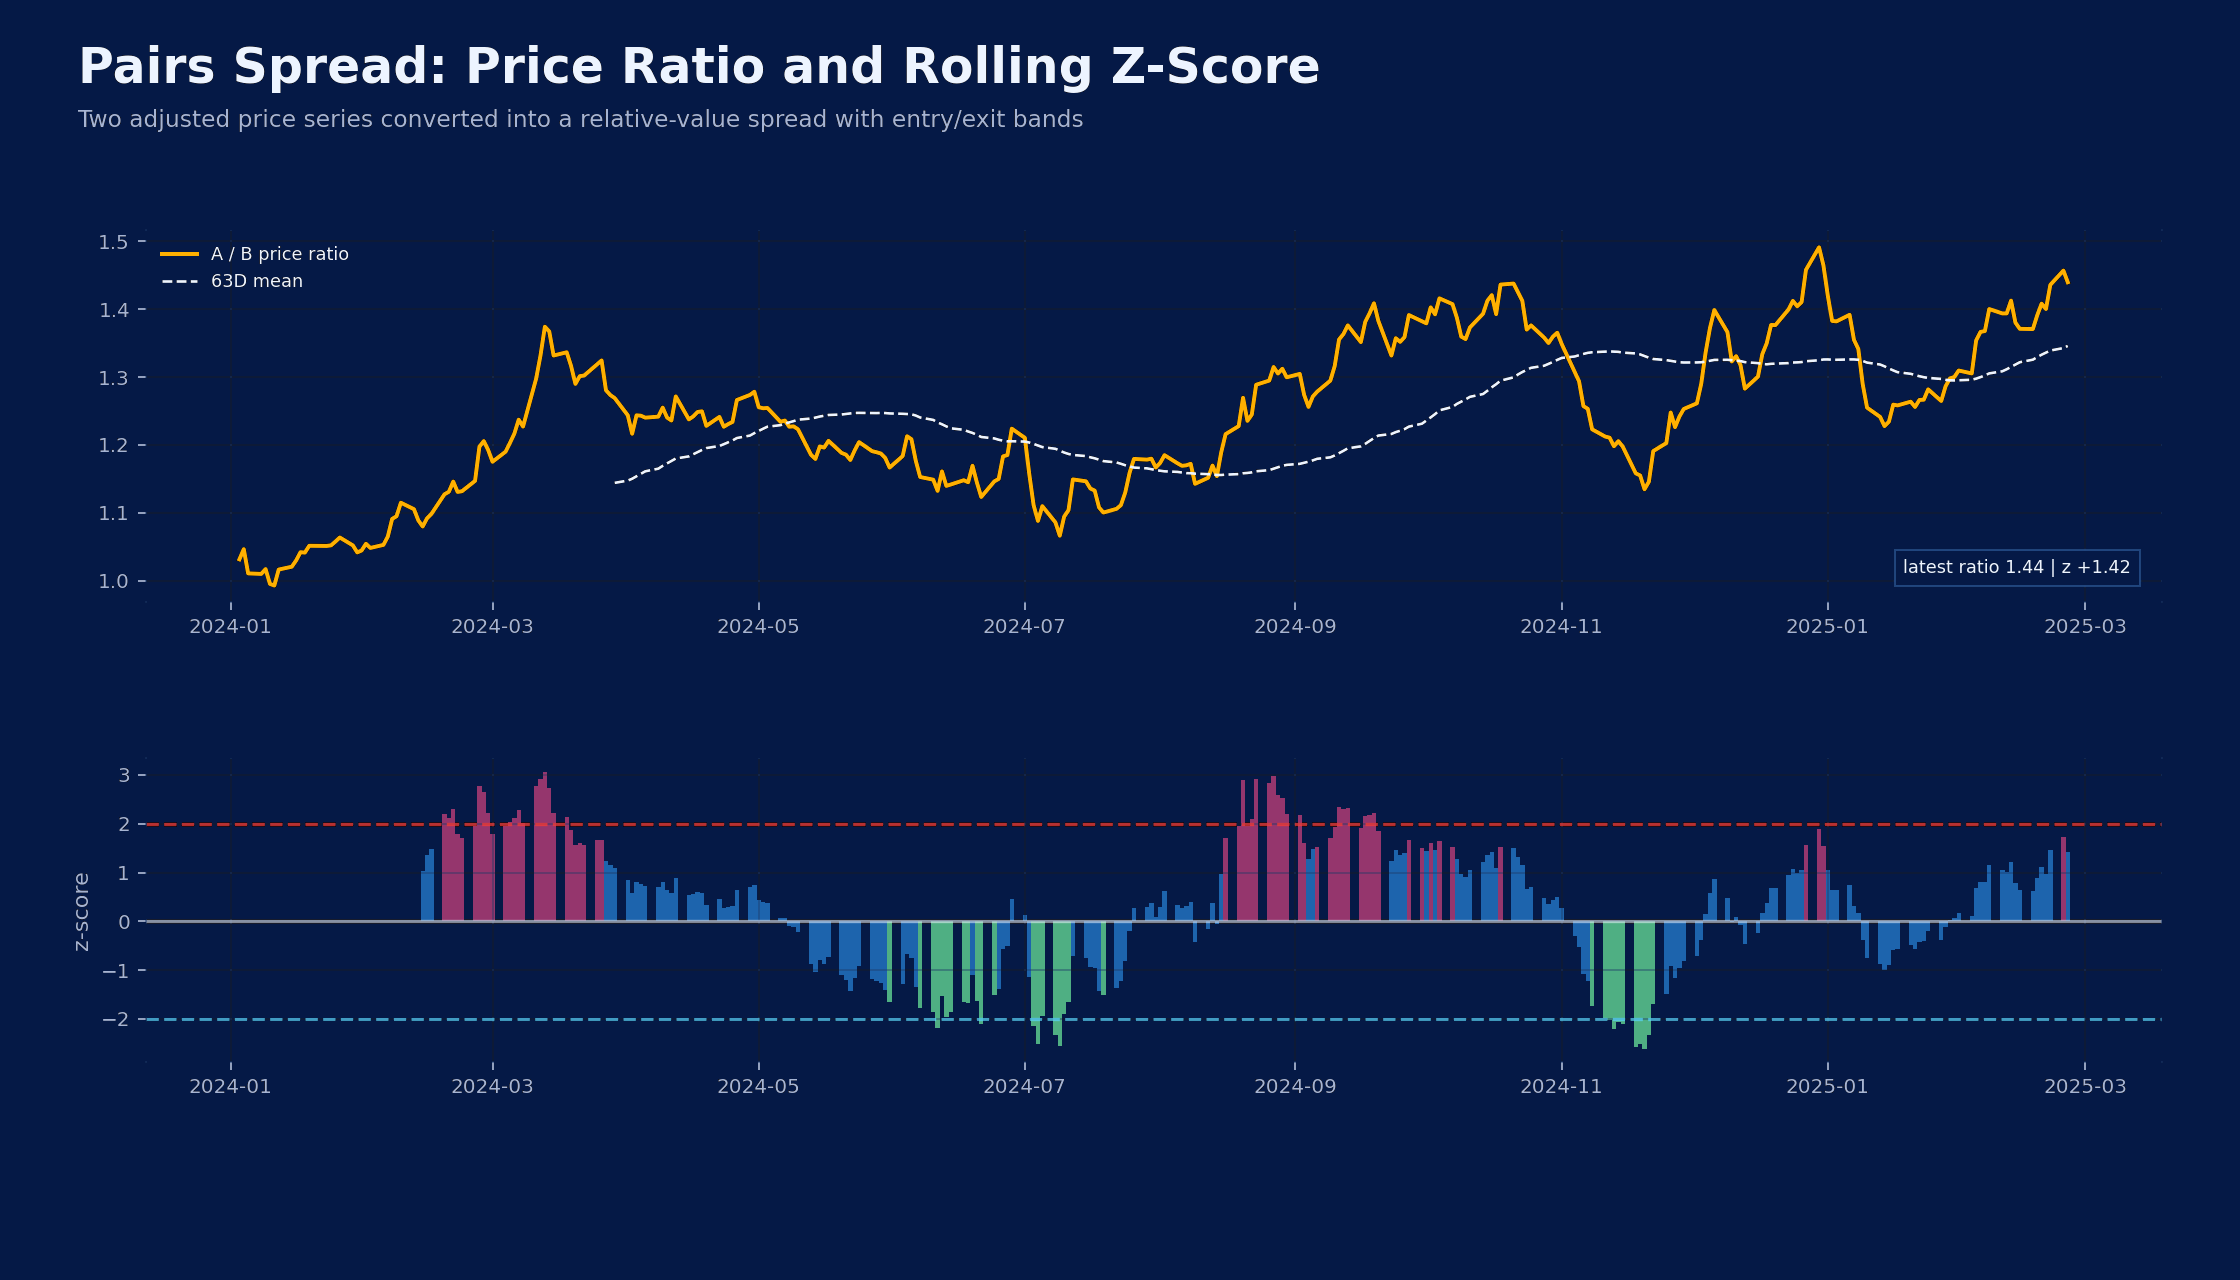
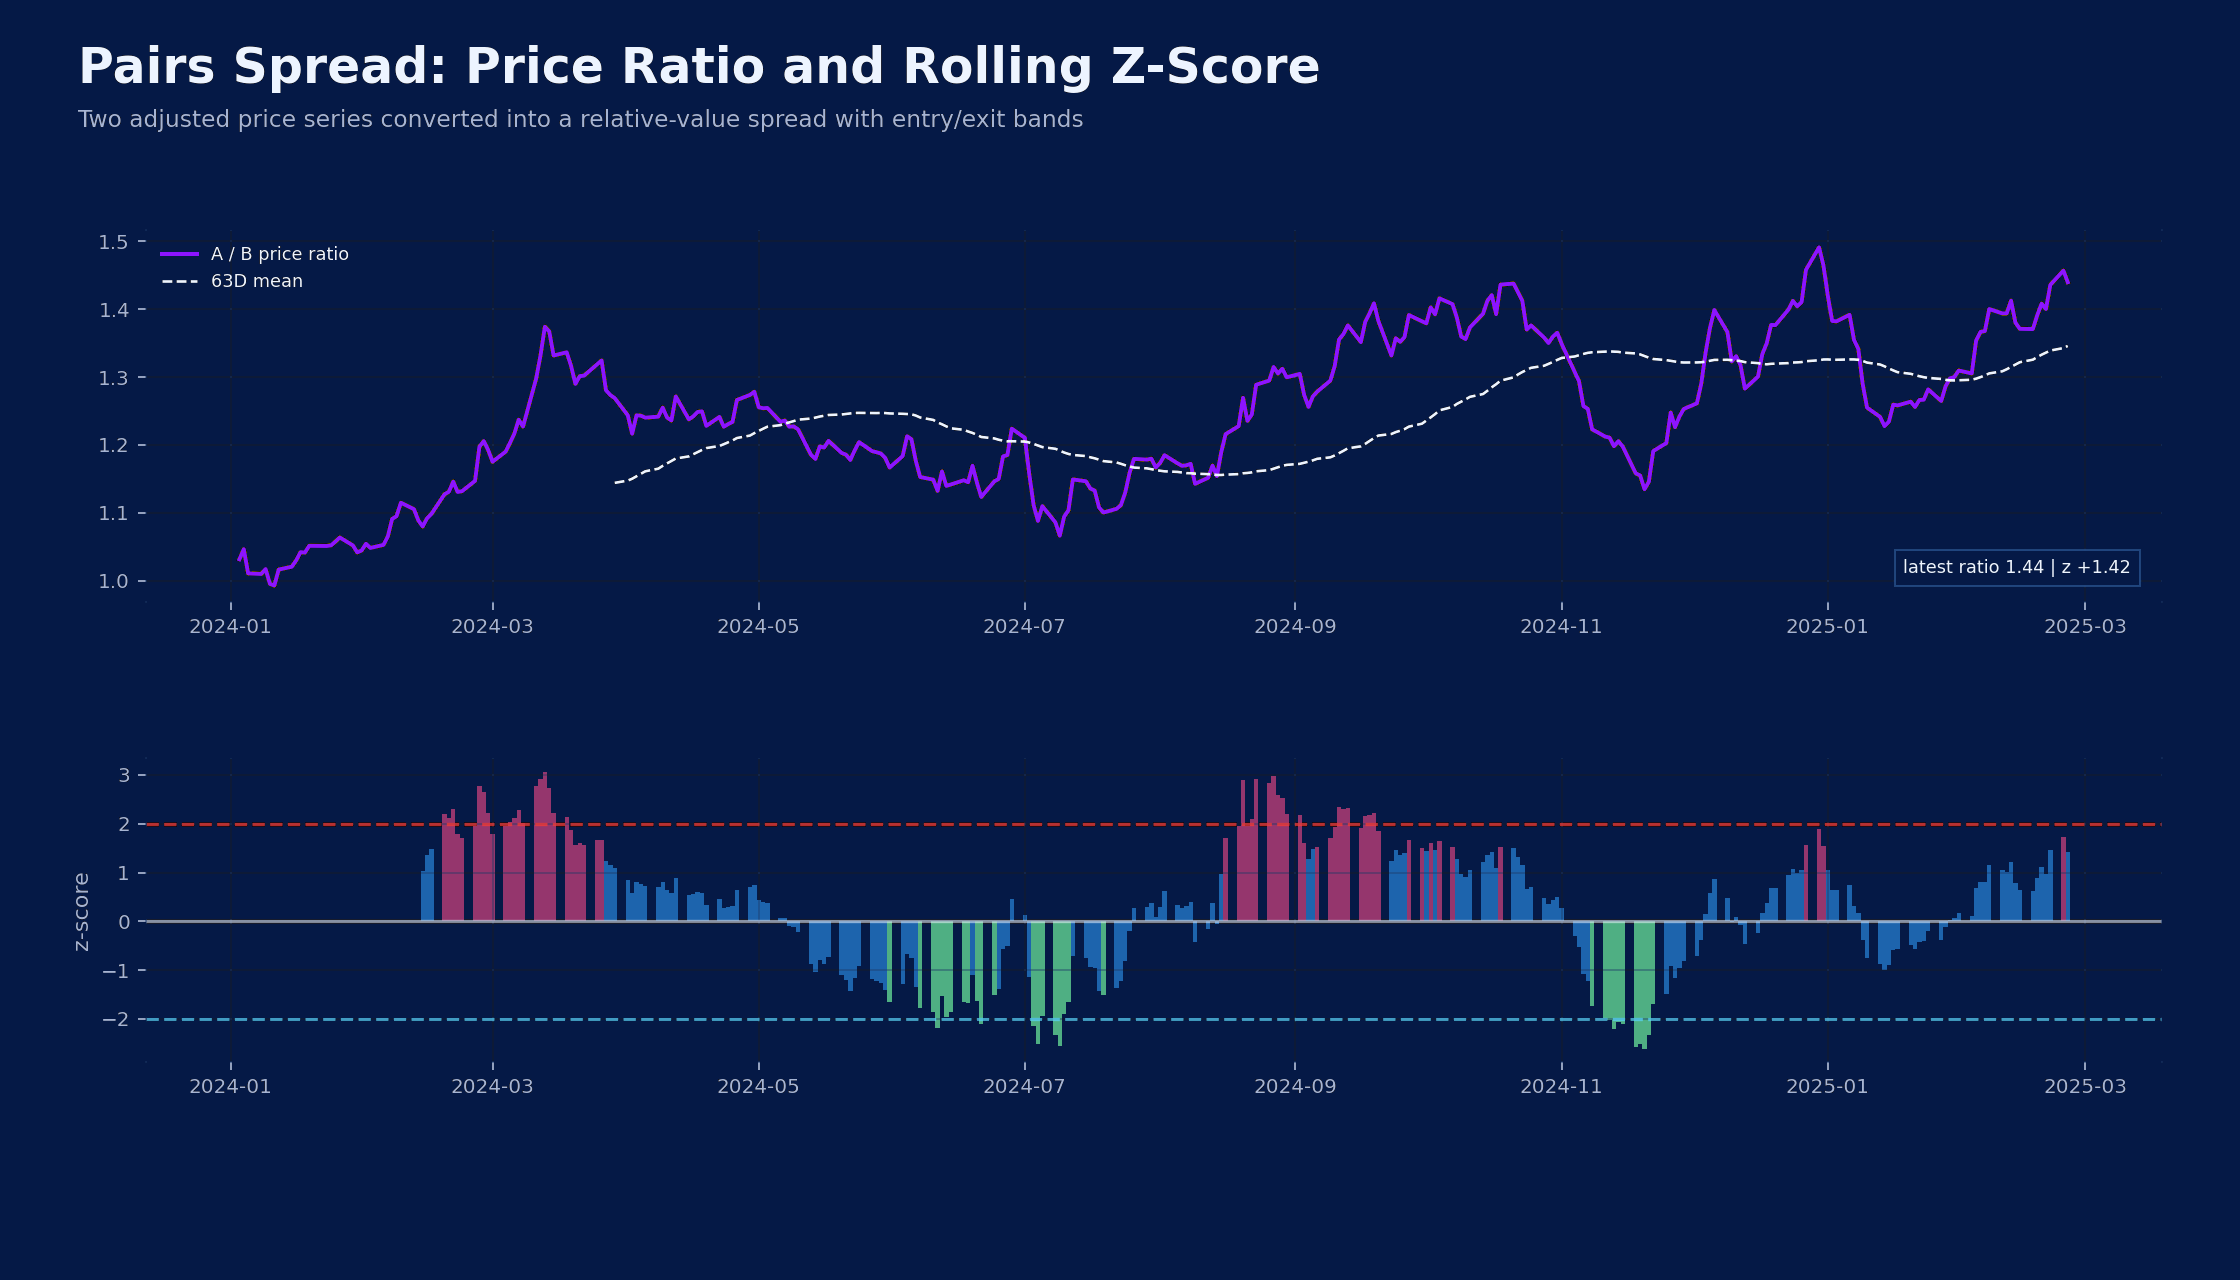
Recolor landing warm accents to purple

diff --git a/scripts/recolor_landing_api_warm_accents.py b/scripts/recolor_landing_api_warm_accents.py
@@ -1,0 +1,123 @@
+from __future__ import annotations
+
+from pathlib import Path
+
+import numpy as np
+from PIL import Image
+
+
+ROOT = Path(__file__).resolve().parents[1]
+TARGET = np.array([168, 85, 247], dtype=np.float32) / 255.0
+TARGET_HSV = None
+
+PLOTS = [
+    ROOT / "_output" / "_v3" / "v3_01_cloud_arr_grouped_bars.png",
+    ROOT / "_output" / "_v3" / "v3_14_earnings_implied_realized_scatter.png",
+    ROOT / "_output" / "_v3" / "v3_23_orange_factor_risk_river.png",
+    ROOT / "_output" / "_v3" / "v3_25_backtest_parameter_surface_3d.png",
+    ROOT / "_output" / "_v3" / "v3_27_realized_volatility_cone.png",
+    ROOT / "_output" / "_v3" / "v3_30_pairs_spread_zscore.png",
+    ROOT / "_output" / "_v3" / "v3_11_roic_wacc_spread_zscore.png",
+    ROOT / "_output" / "39_institutional_crowding_13f_flows_output_01.png",
+]
+
+YELLOW_GREEN_PLOTS = {
+    ROOT / "_output" / "39_institutional_crowding_13f_flows_output_01.png",
+}
+
+
+def rgb_to_hsv(rgb: np.ndarray) -> np.ndarray:
+    r, g, b = rgb[..., 0], rgb[..., 1], rgb[..., 2]
+    maxc = np.max(rgb, axis=-1)
+    minc = np.min(rgb, axis=-1)
+    delta = maxc - minc
+
+    hue = np.zeros_like(maxc)
+    nonzero = delta > 1e-6
+    rmax = nonzero & (maxc == r)
+    gmax = nonzero & (maxc == g)
+    bmax = nonzero & (maxc == b)
+    hue[rmax] = ((g[rmax] - b[rmax]) / delta[rmax]) % 6
+    hue[gmax] = ((b[gmax] - r[gmax]) / delta[gmax]) + 2
+    hue[bmax] = ((r[bmax] - g[bmax]) / delta[bmax]) + 4
+    hue /= 6.0
+
+    sat = np.zeros_like(maxc)
+    sat[maxc > 1e-6] = delta[maxc > 1e-6] / maxc[maxc > 1e-6]
+    return np.stack([hue, sat, maxc], axis=-1)
+
+
+def hsv_to_rgb(hsv: np.ndarray) -> np.ndarray:
+    h, s, v = hsv[..., 0], hsv[..., 1], hsv[..., 2]
+    i = np.floor(h * 6).astype(np.int32)
+    f = h * 6 - i
+    p = v * (1 - s)
+    q = v * (1 - f * s)
+    t = v * (1 - (1 - f) * s)
+    i = i % 6
+
+    out = np.zeros(hsv.shape, dtype=np.float32)
+    choices = [
+        (v, t, p),
+        (q, v, p),
+        (p, v, t),
+        (p, q, v),
+        (t, p, v),
+        (v, p, q),
+    ]
+    for idx, vals in enumerate(choices):
+        mask = i == idx
+        out[..., 0][mask], out[..., 1][mask], out[..., 2][mask] = vals[0][mask], vals[1][mask], vals[2][mask]
+    return out
+
+
+def recolor(path: Path) -> int:
+    image = Image.open(path).convert("RGBA")
+    pixels = np.array(image)
+    rgb = pixels[..., :3].astype(np.float32) / 255.0
+    alpha = pixels[..., 3]
+    hsv = rgb_to_hsv(rgb)
+
+    hue, sat, val = hsv[..., 0], hsv[..., 1], hsv[..., 2]
+    warm_yellow_orange = (
+        (alpha > 0)
+        & (hue >= 0.055)
+        & (hue <= 0.185)
+        & (sat >= 0.28)
+        & (val >= 0.42)
+        & (rgb[..., 0] >= 0.45)
+        & (rgb[..., 1] >= 0.28)
+        & (rgb[..., 2] <= 0.72)
+    )
+    if path in YELLOW_GREEN_PLOTS:
+        warm_yellow_orange = warm_yellow_orange | (
+            (alpha > 0)
+            & (hue >= 0.15)
+            & (hue <= 0.30)
+            & (sat >= 0.22)
+            & (val >= 0.45)
+            & (rgb[..., 0] >= 0.45)
+            & (rgb[..., 1] >= 0.45)
+            & (rgb[..., 2] <= 0.75)
+        )
+
+    target_hue = rgb_to_hsv(TARGET.reshape(1, 1, 3))[0, 0, 0]
+    hsv[..., 0][warm_yellow_orange] = target_hue
+    hsv[..., 1][warm_yellow_orange] = np.clip(hsv[..., 1][warm_yellow_orange] * 0.92, 0.38, 0.92)
+    recolored = np.clip(hsv_to_rgb(hsv) * 255, 0, 255).astype(np.uint8)
+    pixels[..., :3][warm_yellow_orange] = recolored[warm_yellow_orange]
+    Image.fromarray(pixels, "RGBA").save(path)
+    return int(warm_yellow_orange.sum())
+
+
+def main() -> None:
+    missing = [str(path.relative_to(ROOT)) for path in PLOTS if not path.exists()]
+    if missing:
+        raise SystemExit("Missing plots:\n" + "\n".join(missing))
+    for path in PLOTS:
+        changed = recolor(path)
+        print(f"{path.relative_to(ROOT)}: recolored {changed:,} pixels")
+
+
+if __name__ == "__main__":
+    main()
